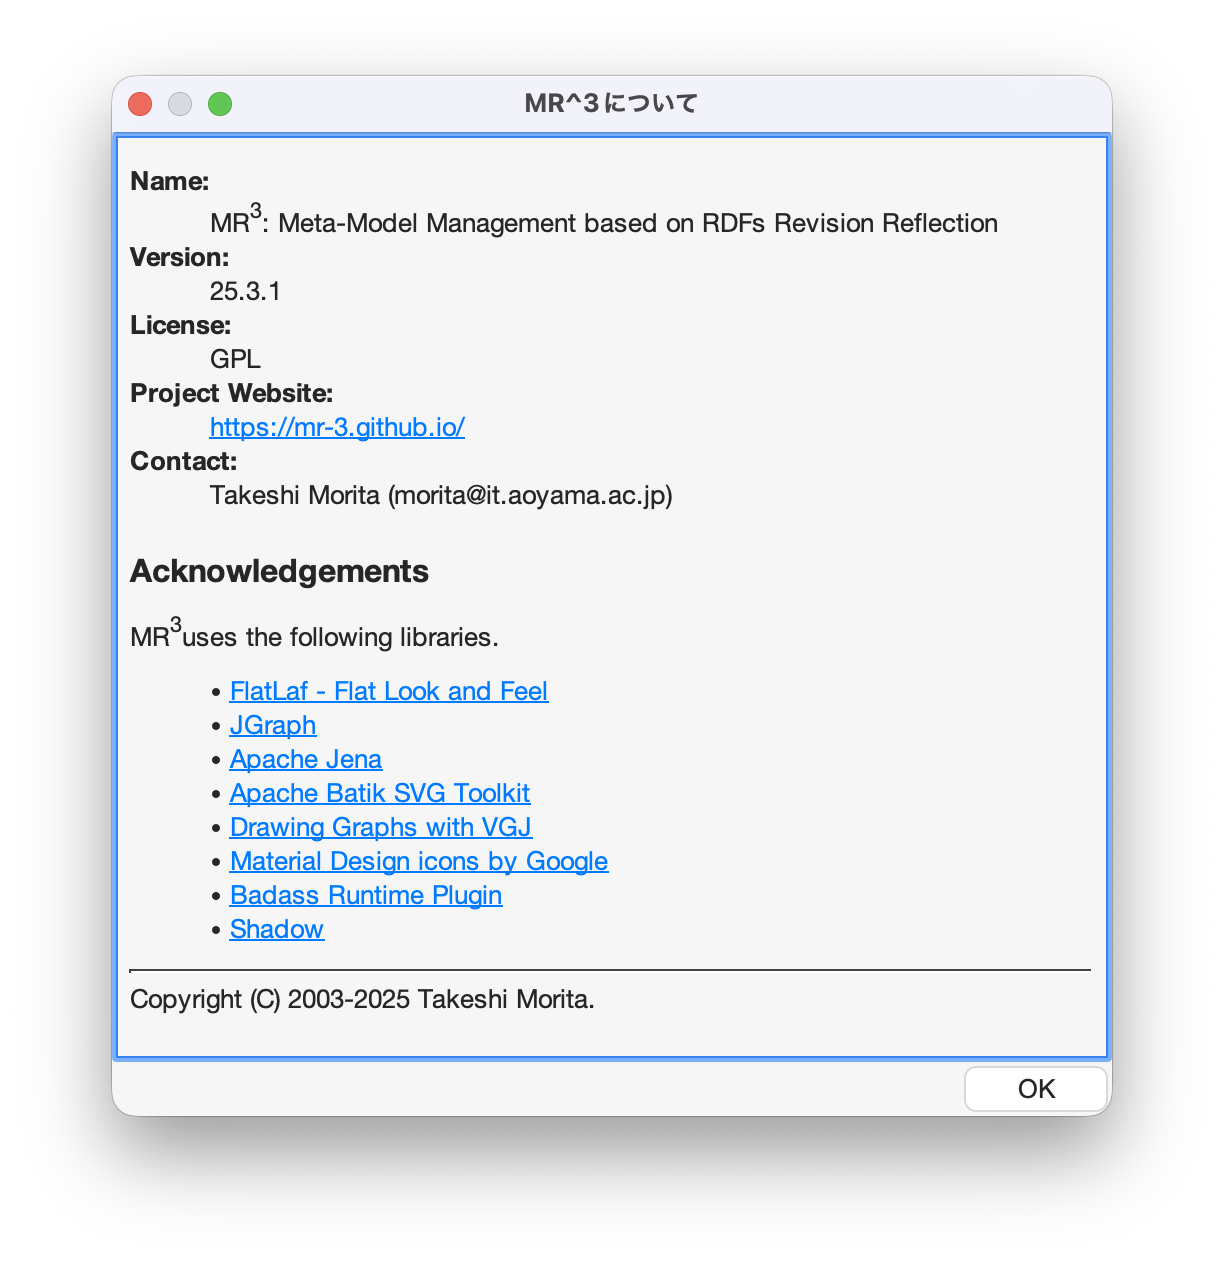
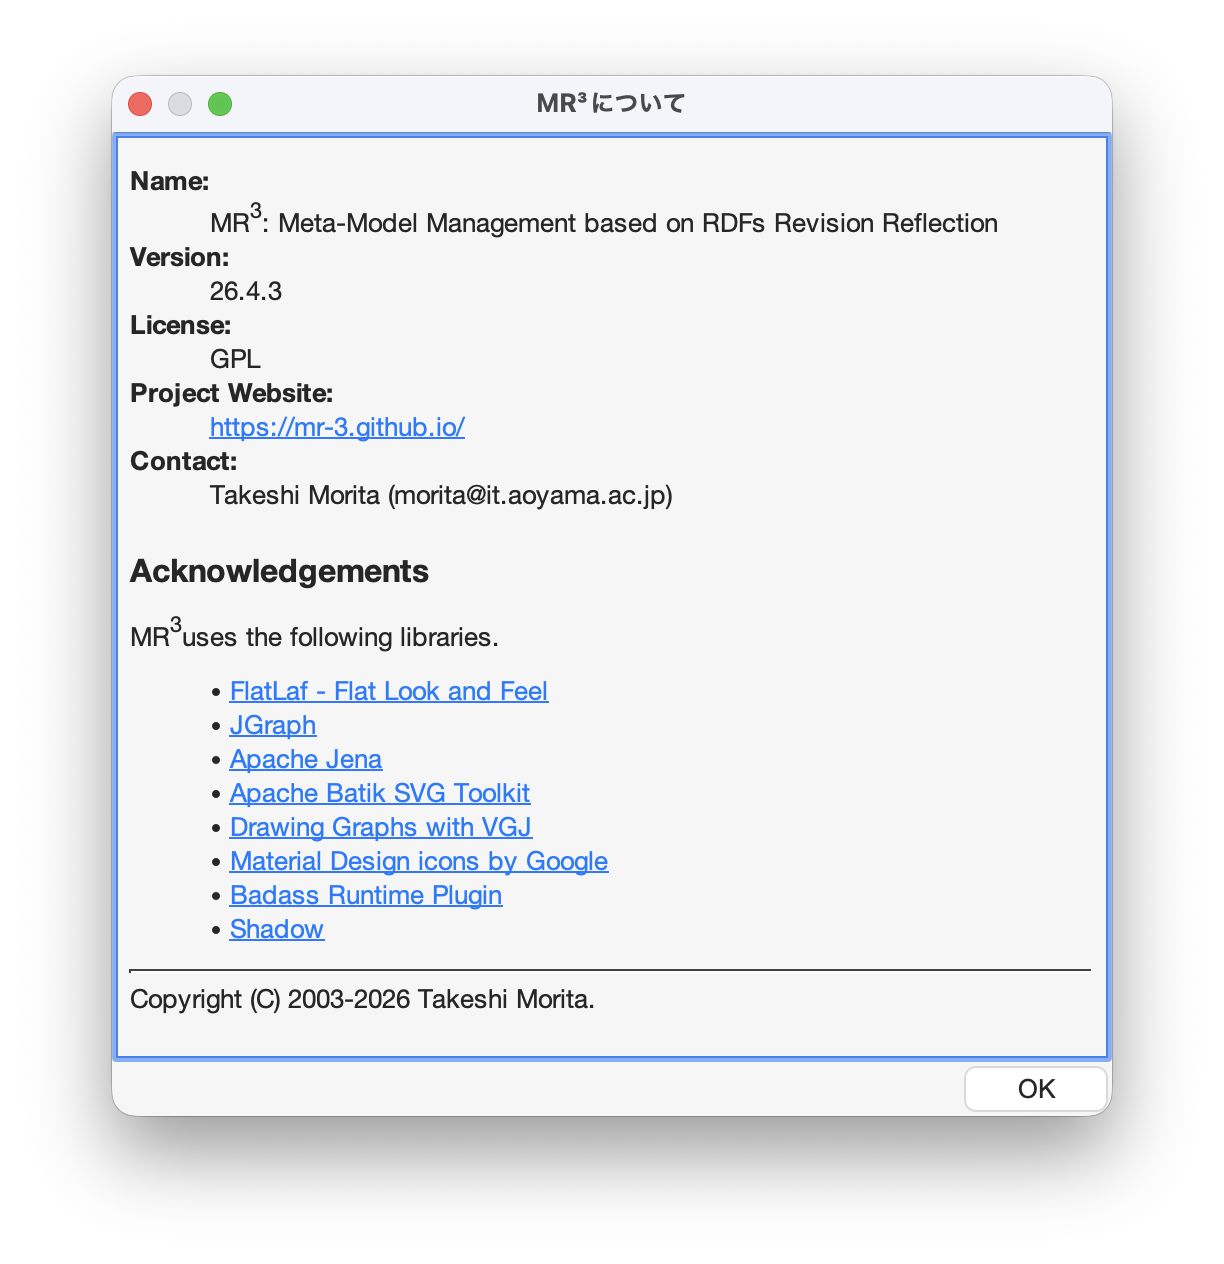
update about dialog image
change MR^3 to MR\ :sup:`3` \

diff --git a/docs/source/user_manual.rst b/docs/source/user_manual.rst
@@ -31,7 +31,7 @@ MR\ :sup:`3` \のシステム構成図
    MR\ :sup:`3` \のシステム構成
 
 MR\ :sup:`3` \の画面構成
-------------------------
+----------------------------
 :numref:`mr3-screenshot` にMR\ :sup:`3` \のグラフィカルモデラのスクリーンショットを示す．グラフィカルモデラは，インスタンスエディタ，クラスエディタ，プロパティエディタ，属性ダイアログ，名前空間テーブル，削除ダイアログ，リソース検索ダイアログ，インポートダイアログ，エクスポートダイアログ，設定ダイアログから構成される．
 
  .. _mr3-screenshot:
@@ -463,7 +463,7 @@ RDFリソースに対して，rdfs:label プロパティを用いてRDFリソー
 
 インポートダイアログ
 --------------------
-「ファイル」メニューの「開く」またはツールバーから |open| アイコンを選択すると，インポートダイアログが表示される．インポートダイアログでは，Turtle, JSONLD, N-Triples, RDF/XML 形式で記述されたRDF(S)文書またはMR^3プロジェクト形式のファイルを，MR\ :sup:`3` \にインポートすることができる． :numref:`import-dialog` にインポートダイアログのスクリーンショットを示す．インポートしたいファイルと「ファイルのタイプ」コンボボックスからファイルの形式を選択し，「開く」ボタンをクリックすると，選択したファイルをインポートすることができる．
+「ファイル」メニューの「開く」またはツールバーから |open| アイコンを選択すると，インポートダイアログが表示される．インポートダイアログでは，Turtle, JSONLD, N-Triples, RDF/XML 形式で記述されたRDF(S)文書またはMR\ :sup:`3` \プロジェクト形式のファイルを，MR\ :sup:`3` \にインポートすることができる． :numref:`import-dialog` にインポートダイアログのスクリーンショットを示す．インポートしたいファイルと「ファイルのタイプ」コンボボックスからファイルの形式を選択し，「開く」ボタンをクリックすると，選択したファイルをインポートすることができる．
 
  .. _import-dialog:
  .. figure:: figures/import_dialog.png
@@ -487,14 +487,14 @@ RDFリソースに対して，rdfs:label プロパティを用いてRDFリソー
    jsonld, JSONLD
    n3, N-Triples
    rdf, RDF/XML
-   mr3, MR^3 プロジェクト
+   mr3, MR\ :sup:`3` \ プロジェクト
 
 
 .. index:: エクスポートダイアログ
 
 エクスポートダイアログ
 ----------------------
-「ファイル」メニューの「名前を付けて保存」またはツールバーから |saveas| アイコンを選択すると，エクスポートダイアログが表示される．エクスポートダイアログでは，MR\ :sup:`3` \ で構築したRDF(S) データグラフをTurtle, JSONLD, N-Triples, RDF/XML 形式でファイルに保存することができる．また，MR^3プロジェクト形式でファイルを保存することもできる． :numref:`export-dialog` にエクスポートダイアログのスクリーンショットを示す．保存したいファイル名を入力し，「ファイルのタイプ」コンボボックスからファイルの形式を選択し，「保存」ボタンをクリックすると，ファイルを保存することができる．「ファイルのタイプ」として「すべてのファイル」を選択した場合には，ファイルの拡張子によりファイルの形式が自動判別される．
+「ファイル」メニューの「名前を付けて保存」またはツールバーから |saveas| アイコンを選択すると，エクスポートダイアログが表示される．エクスポートダイアログでは，MR\ :sup:`3` \ で構築したRDF(S) データグラフをTurtle, JSONLD, N-Triples, RDF/XML 形式でファイルに保存することができる．また，MR\ :sup:`3` \プロジェクト形式でファイルを保存することもできる． :numref:`export-dialog` にエクスポートダイアログのスクリーンショットを示す．保存したいファイル名を入力し，「ファイルのタイプ」コンボボックスからファイルの形式を選択し，「保存」ボタンをクリックすると，ファイルを保存することができる．「ファイルのタイプ」として「すべてのファイル」を選択した場合には，ファイルの拡張子によりファイルの形式が自動判別される．
 
 .. _export-dialog:
 
@@ -646,9 +646,9 @@ SPARQLクエリダイアログ
 
    ログ・コンソール
 
-MR^3について
----------------
-「ヘルプ」メニューの「MR^3について」を選択すると，:numref:`about-mr3` に示すダイアログが表示される．
+MR\ :sup:`3` \について
+---------------------------
+「ヘルプ」メニューの「MR\ :sup:`3` \について」を選択すると，:numref:`about-mr3` に示すダイアログが表示される．
 
 .. _about-mr3:
 .. figure:: figures/about_dialog.png
@@ -656,7 +656,7 @@ MR^3について
    :alt: MR3について
    :align: center
 
-   MR^3について
+   MR\ :sup:`3` \について
 
 メニュー
 ------------- 
@@ -747,9 +747,9 @@ SPARQLクエリダイアログ
 
 ヘルプメニュー
 ~~~~~~~~~~~~~~~~~~
-MR^3 について
+MR\ :sup:`3` \ について
     MR\ :sup:`3` \のバージョン，HPのURL等を表示する
-MR^3 マニュアル 
+MR\ :sup:`3` \ マニュアル 
     MR\ :sup:`3` \のマニュアルのページをウェブブラウザに表示する
  
 ツールバー
